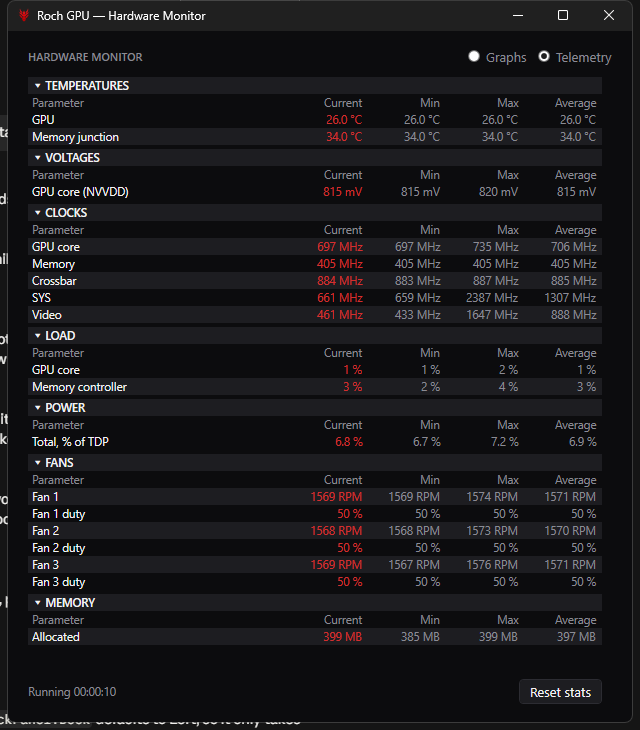
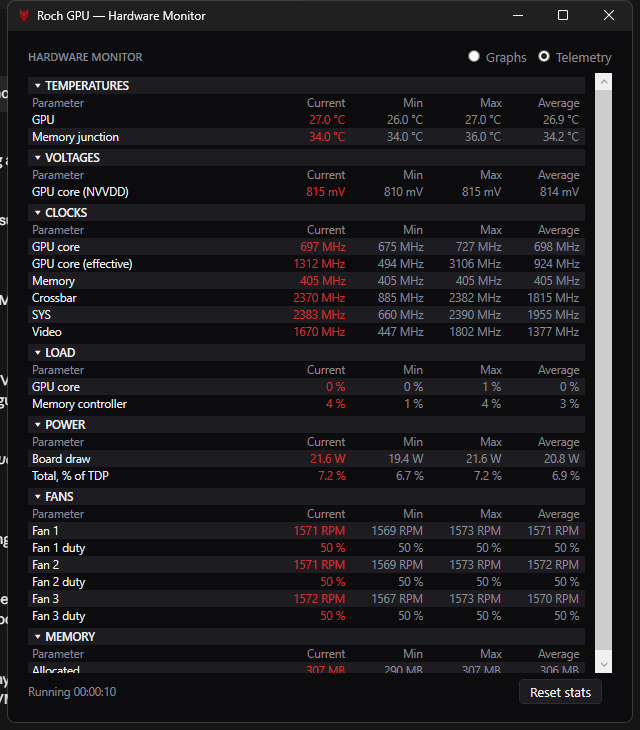
Add board watts and the effective core clock; rule out the other three
Board power comes from NVML, because NVAPI has none. Its power families report
per-cent-mille of the limit and nothing else: the topology call, the policy
status and the policy info all agree, and sweeping every struct size each will
accept turned up no milliwatt field. The topology call was worth finding anyway
- 0x48 x v1, two entries - but correlating it against the percent already read
gave a ratio of about 1000 four samples running, so it is the same figure at
more precision. NVML reports the draw directly and now feeds PowerWatts.

Effective core clock is the domain counter the crossbar work already exposed,
read for domain 0. Worth its own row because it is not the reported clock: at
idle the card advertises a boost figure it is not running, and the counter says
what it is doing.

The other three asked for are not available through anything this build can
reach, and the evidence is recorded so nobody repeats the search:

  MSVDD voltage - not in the rail status call. Every non-zero word of both
  rails' entries reads the same in every field, 810 mV in both +0x04 and +0x6C,
  and only the limits differ between rails. The first attempt at this took
  +0x04 alone and would have labelled core voltage as MSVDD; dumping the whole
  entry is what settles it.

  Hot spot and memory chip temperature - not in the thermal call, shown
  earlier: two sensors, and the mask is not selecting them.

Diag gains the sweep that found the topology struct, a rail-status dump, and a
[…]

diff --git a/src/GpuTuner.Core/Backends/Nvidia/NvApiPrivate.cs b/src/GpuTuner.Core/Backends/Nvidia/NvApiPrivate.cs
@@ -569,6 +569,114 @@ internal static class NvApiPrivate
             : 0u;
 
     /// <summary>Read every rail the GPU reports. Empty when unsupported.</summary>
+    /// <summary>
+    /// Every non-zero word of each rail's status entry, so a field that differs between rails can be
+    /// found rather than guessed at. The first attempt at reading a per-rail voltage took +0x04 and
+    /// got the same number for both rails, which would have labelled the core voltage as MSVDD.
+    /// </summary>
+    public static List<(int Rail, string Words)> DumpRailStatus(PhysicalGPUHandle handle)
+    {
+        var outp = new List<(int, string)>();
+        uint mask = ReadRailMask(handle);
+        if (mask == 0) return outp;
+        var status = RailCall(handle, FnVoltRailsGetStatus, VoltRailsStatusSize, mask);
+        if (status == null) return outp;
+
+        for (int r = 0, slot = 0; r < 32; r++)
+        {
+            if ((mask & (1u << r)) == 0) continue;
+            int s = StatusEntries + slot * StatusStride;
+            slot++;
+            if (s + StatusStride > status.Length) break;
+            var words = new List<string>();
+            for (int off = 0; off + 4 <= StatusStride; off += 4)
+            {
+                int w = BitConverter.ToInt32(status, s + off);
+                if (w != 0) words.Add($"+0x{off:X2}={w}");
+            }
+            outp.Add((r, string.Join(" ", words)));
+        }
+        return outp;
+    }
+
+    /// <summary>
+    /// Find the struct size an entry point wants by trying every one in a range. A wrong size answers
+    /// -9 and nothing else happens, so the sweep is cheap and the first status of 0 is the answer —
+    /// which is how the crossbar's 0x61A4 was found rather than guessed.
+    /// </summary>
+    public static List<(int Size, int Version, string Words)> SweepShapes(
+        PhysicalGPUHandle handle, uint id, int minSize, int maxSize, int[] versions, int maxWords = 20)
+    {
+        var hits = new List<(int, int, string)>();
+        var ptr = QueryInterface64(id);
+        if (ptr == IntPtr.Zero) return hits;
+        var fn = Marshal.GetDelegateForFunctionPointer<RawDelegate>(ptr);
+
+        foreach (int version in versions)
+            for (int size = minSize; size <= maxSize; size += 4)
+            {
+                var buf = Marshal.AllocHGlobal(size);
+                try
+                {
+                    for (int i = 0; i < size; i += 4) Marshal.WriteInt32(buf, i, 0);
+                    Marshal.WriteInt32(buf, 0, size | (version << 16));
+                    int status;
+                    try { status = fn(handle.MemoryAddress, buf); }
+                    catch { continue; }
+                    if (status != 0) continue;
+
+                    var words = new List<string>();
+                    for (int off = 4; off + 4 <= size && words.Count < maxWords; off += 4)
+                    {
+                        int w = Marshal.ReadInt32(buf, off);
+                        if (w != 0) words.Add($"+0x{off:X3}={w}");
+                    }
+                    hits.Add((size, version, words.Count == 0 ? "(all zero)" : string.Join(" ", words)));
+                }
+                finally { Marshal.FreeHGlobal(buf); }
+            }
+        return hits;
+    }
+
+    /// <summary>
+    /// Call an arbitrary private entry point with a set of shapes and report what comes back. The
+    /// same sweep that identified the crossbar's struct, made reusable: a status of 0 with non-zero
+    /// words is a live call, and everything else narrows the search.
+    /// </summary>
+    public static List<(int Size, int Version, int Status, string Words)> ProbeUnknown(
+        PhysicalGPUHandle handle, uint id, int[] sizes, int[] versions, int maxWords = 24)
+    {
+        var results = new List<(int, int, int, string)>();
+        var ptr = QueryInterface64(id);
+        if (ptr == IntPtr.Zero) return results;
+        var fn = Marshal.GetDelegateForFunctionPointer<RawDelegate>(ptr);
+
+        foreach (int size in sizes)
+            foreach (int version in versions)
+            {
+                var buf = Marshal.AllocHGlobal(size);
+                try
+                {
+                    for (int i = 0; i < size; i += 4) Marshal.WriteInt32(buf, i, 0);
+                    Marshal.WriteInt32(buf, 0, size | (version << 16));
+                    int status;
+                    try { status = fn(handle.MemoryAddress, buf); }
+                    catch { status = -99; }
+
+                    var words = new List<string>();
+                    if (status == 0)
+                        for (int off = 4; off + 4 <= size && words.Count < maxWords; off += 4)
+                        {
+                            int w = Marshal.ReadInt32(buf, off);
+                            if (w != 0) words.Add($"+0x{off:X3}={w}");
+                        }
+                    results.Add((size, version, status, words.Count == 0 ? "(none)" : string.Join(" ", words)));
+                }
+                finally { Marshal.FreeHGlobal(buf); }
+            }
+        return results;
+    }
+
     public static IReadOnlyList<VoltRail> ReadVoltRails(PhysicalGPUHandle handle)
     {
         uint mask = ReadRailMask(handle);

diff --git a/src/GpuTuner.Core/Backends/Nvidia/NvApiBackend.cs b/src/GpuTuner.Core/Backends/Nvidia/NvApiBackend.cs
@@ -389,6 +389,10 @@ public sealed class NvApiBackend : IGpuBackend
         try { voltage = GPUApi.GetCurrentVoltage(g.Handle).ValueInMicroVolt / 1000.0; } catch (NVIDIAApiException) { }
         catch (NVIDIANotSupportedException) { }
 
+        // Board watts. NVAPI's power families report per-cent-mille of the limit and no watts at
+        // all, so this is the one figure that has to come from NVML.
+        double watts = Nvml.PowerWatts(NvmlIndexFor(gpuIndex));
+
         double power = 0;
         try
         {
@@ -446,7 +450,7 @@ public sealed class NvApiBackend : IGpuBackend
         {
             CoreClockMhz = core, MemoryClockMhz = mem,
             TemperatureC = temp, HotSpotC = hotspot, MemoryTemperatureC = memTemp,
-            VoltageMv = voltage, PowerPercent = power,
+            VoltageMv = voltage, PowerPercent = power, PowerWatts = double.IsNaN(watts) ? 0 : watts,
             GpuLoadPercent = load, MemoryLoadPercent = memLoad, MemoryUsedMb = memUsed,
             FanPercent = fanPcts.Count > 0 ? fanPcts.Max() : 0,
             FanRpm = fanRpms.Count > 0 ? fanRpms.Max() : 0,
@@ -663,6 +667,9 @@ public sealed class NvApiBackend : IGpuBackend
         var d = new Dictionary<string, double>(3);
         try
         {
+            // The core's own counter, which is not the requested clock: at idle the card reports a
+            // boost figure it is not running. This is the one a monitoring tool calls "effective".
+            d["coremeasured"] = NvApiPrivate.MeasureClockKhz(g.Handle, NvApiPrivate.DomainCore) / 1000.0;
             d["xbar"] = NvApiPrivate.MeasureClockKhz(g.Handle, NvApiPrivate.DomainXbar) / 1000.0;
             d["sys"] = NvApiPrivate.MeasureClockKhz(g.Handle, 2) / 1000.0;
             d["video"] = NvApiPrivate.MeasureClockKhz(g.Handle, 21) / 1000.0;
@@ -1701,6 +1708,28 @@ public sealed class NvApiBackend : IGpuBackend
                 if (basePts[i].VoltageUv == 0 || basePts[i].FrequencyKhz == 0) continue;
                 sb.AppendLine($"  [{i,2}] {basePts[i].VoltageUv / 1000.0,6:0} mV  stock {basePts[i].FrequencyKhz / 1000,5} MHz  " +
                               $"live {eff[i].FrequencyKhz / 1000,5} MHz");
+            }
+        });
+
+        Section("Voltage rail status entries (looking for a per-rail voltage)", () =>
+        {
+            foreach (var (rail, words) in NvApiPrivate.DumpRailStatus(g.Handle))
+                sb.AppendLine($"  rail {rail}: {words}");
+        });
+
+        Section("Client power topology probe (looking for board watts)", () =>
+        {
+            // Two entry points monitoring tools use for per-rail power. Shapes unknown on this
+            // driver, so sweep rather than assume; a status of 0 with non-zero words is a live call.
+            foreach (var (id, name) in new[] { (0xEDCF624Eu, "ClientPowerTopologyGetStatus"),
+                                               (0xA4DFD3F2u, "ClientPowerTopologyGetInfo"),
+                                               (0x34206D86u, "ClientPowerPoliciesGetInfo") })
+            {
+                sb.AppendLine($"  {name} (0x{id:X8}):");
+                var hits = NvApiPrivate.SweepShapes(g.Handle, id, 0x08, 0x900, new[] { 1, 2, 3 });
+                if (hits.Count == 0) { sb.AppendLine("    no size in 0x08..0x900 accepted"); continue; }
+                foreach (var h in hits)
+                    sb.AppendLine($"    0x{h.Size:X3} x v{h.Version}  {h.Words}");
             }
         });
 

diff --git a/src/GpuTuner.Core/Backends/Nvidia/Nvml.cs b/src/GpuTuner.Core/Backends/Nvidia/Nvml.cs
@@ -1,4 +1,4 @@
-using System.Runtime.InteropServices;
+using System.Runtime.InteropServices;
 
 namespace GpuTuner.Core.Backends.Nvidia;
 
@@ -27,6 +27,7 @@ internal static class Nvml
     [DllImport(Dll, EntryPoint = "nvmlDeviceResetGpuLockedClocks")] private static extern int ResetLocked(IntPtr device);
     [DllImport(Dll, EntryPoint = "nvmlErrorString")] private static extern IntPtr ErrorString(int result);
     [DllImport(Dll, EntryPoint = "nvmlDeviceGetName")] private static extern int GetNameRaw(IntPtr device, [Out] byte[] name, uint length);
+    [DllImport(Dll, EntryPoint = "nvmlDeviceGetPowerUsage")] private static extern int GetPowerUsage(IntPtr device, out uint milliwatts);
 
     private static bool _initTried, _initOk;
     private static readonly object Gate = new();
@@ -92,6 +93,28 @@ internal static class Nvml
     }
 
     /// <summary>Device name as NVML sees it — used to confirm the index lines up with the NVAPI one.</summary>
+    /// <summary>
+    /// Board power draw in watts, or NaN when NVML cannot say.
+    ///
+    /// NVAPI has no watts on this card: its power families report per-cent-mille of the limit and
+    /// nothing else — the topology call, the policy status and the policy info all agree on that,
+    /// and a sweep of every struct size each accepts turned up no milliwatt field anywhere. NVML
+    /// reports the draw directly, so that is where this comes from.
+    /// </summary>
+    public static double PowerWatts(int gpuIndex)
+    {
+        if (!IsAvailable) return double.NaN;
+        lock (Gate)
+        {
+            try
+            {
+                if (GetHandle((uint)gpuIndex, out var dev) != Success) return double.NaN;
+                return GetPowerUsage(dev, out uint mw) == Success ? mw / 1000.0 : double.NaN;
+            }
+            catch (Exception) { return double.NaN; }
+        }
+    }
+
     public static string? DeviceName(int gpuIndex)
     {
         if (!IsAvailable) return null;

diff --git a/src/GpuTuner.App/ViewModels/TelemetryTable.cs b/src/GpuTuner.App/ViewModels/TelemetryTable.cs
@@ -132,6 +132,7 @@ public sealed class TelemetryTable
 
         Group("Clocks");
         Sensor("core", "GPU core", "MHz");
+        Sensor("coremeasured", "GPU core (effective)", "MHz");
         Sensor("mem", "Memory", "MHz");
         if (caps.CanSetXbarOffset) Sensor("xbar", "Crossbar", "MHz");
         if (caps.CanSetSysOffset) Sensor("sys", "SYS", "MHz");
@@ -142,7 +143,7 @@ public sealed class TelemetryTable
         Sensor("memload", "Memory controller", "%");
 
         Group("Power");
-        if (first.PowerWatts > 0) Sensor("watts", "Board", "W", 1);
+        if (first.PowerWatts > 0) Sensor("watts", "Board draw", "W", 1);
         Sensor("tdp", "Total, % of TDP", "%", 1);
 
         Group("Fans");

diff --git a/README.md b/README.md
@@ -243,9 +243,15 @@ Provided as-is, with no warranty. You are responsible for what you do to your ow
   delta field rather than a promise.
 - **MSVDD is Blackwell-only.** The rail control is present on a 5070 Ti and absent on the 40-series
   cards tested, where NVVDD works on its own.
-- **Hot spot temperature is not read on Blackwell.** The private thermal call returns exactly two
+- **MSVDD's own voltage is not exposed.** Its ceiling and floor are set and read back, but the
+  voltage the rail actually runs at is not. The rail status call does not carry it: dumping every
+  non-zero word of both rails' entries gives the same reading in every field — 810 mV in both
+  +0x04 and +0x6C — and the only fields that differ between the two rails are their limits. A tool
+  that shows MSVDD separately is reading an ADC family this build does not call.
+- **Hot spot and memory chip temperature are not read on Blackwell.** The private thermal call returns exactly two
   sensors on a 5070 Ti — one tracking the public GPU reading within half a degree, one about eight
-  degrees above it where memory junction sits — and no hot spot among them. Established rather than
+  degrees above it where memory junction sits — and neither hot spot nor a separate chip reading
+  among them. Established rather than
   assumed: every struct version and mask width the call accepts returns the same two slots, and a
   three-bit mask returns as much as a nineteen-bit one, so the mask is not selecting sensors at all.
   A monitoring tool that shows hot spot on this card is reading it somewhere this build does not.
